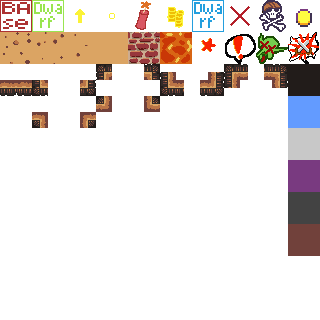
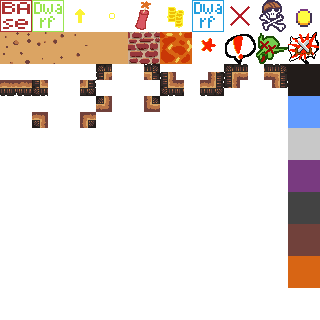
render mined floors and water flowing on top of it doesnt change the sprite

Changed region(s): [[0.875, 0.7812, 1.0, 0.9062]]

diff --git a/TODO.md b/TODO.md
@@ -7,9 +7,8 @@
 # Bugs
 ////////////////////////////////////////////////////////////////////////////////////////////////////
 
-- Mined floors not rendering
-- Resetting game can crash
 - Water doesn't spread immediately
+- Resetting game can crash
 - Dwarf warrior attacked a goblin diagonally when the goblin was attacking a base.
 - Dwarf warrior unable to path to a goblin when standing behind a miner who is attacking that goblin.
 - Dwarf didn't grab treasure in treasure cave with only 1 treasure
@@ -40,7 +39,6 @@
 - deteriorating arrows
 - round loading screen
 - Camera restriction within world bounds
-- Water AnimatedSprite per world column for wave effect
 
 ////////////////////////////////////////////////////////////////////////////////////////////////////
 #  Art
